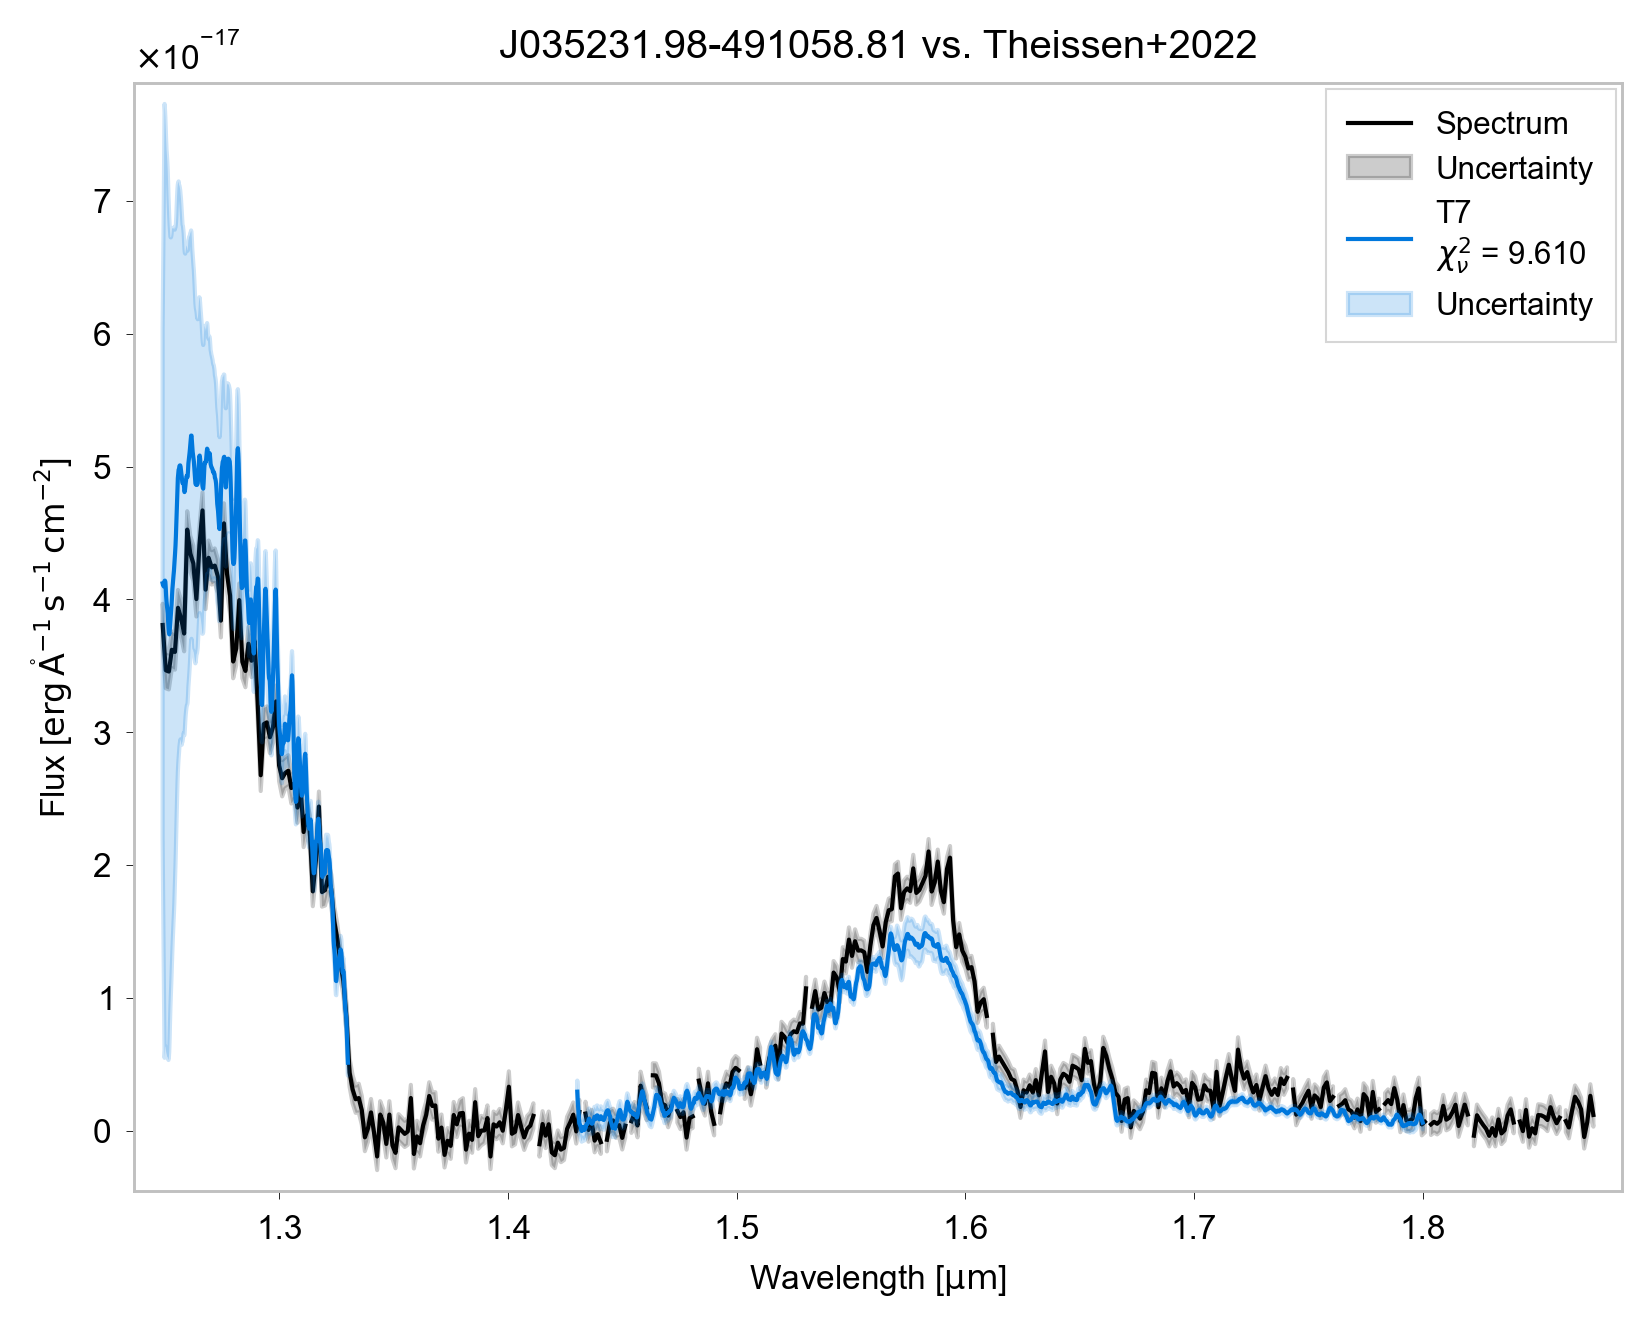
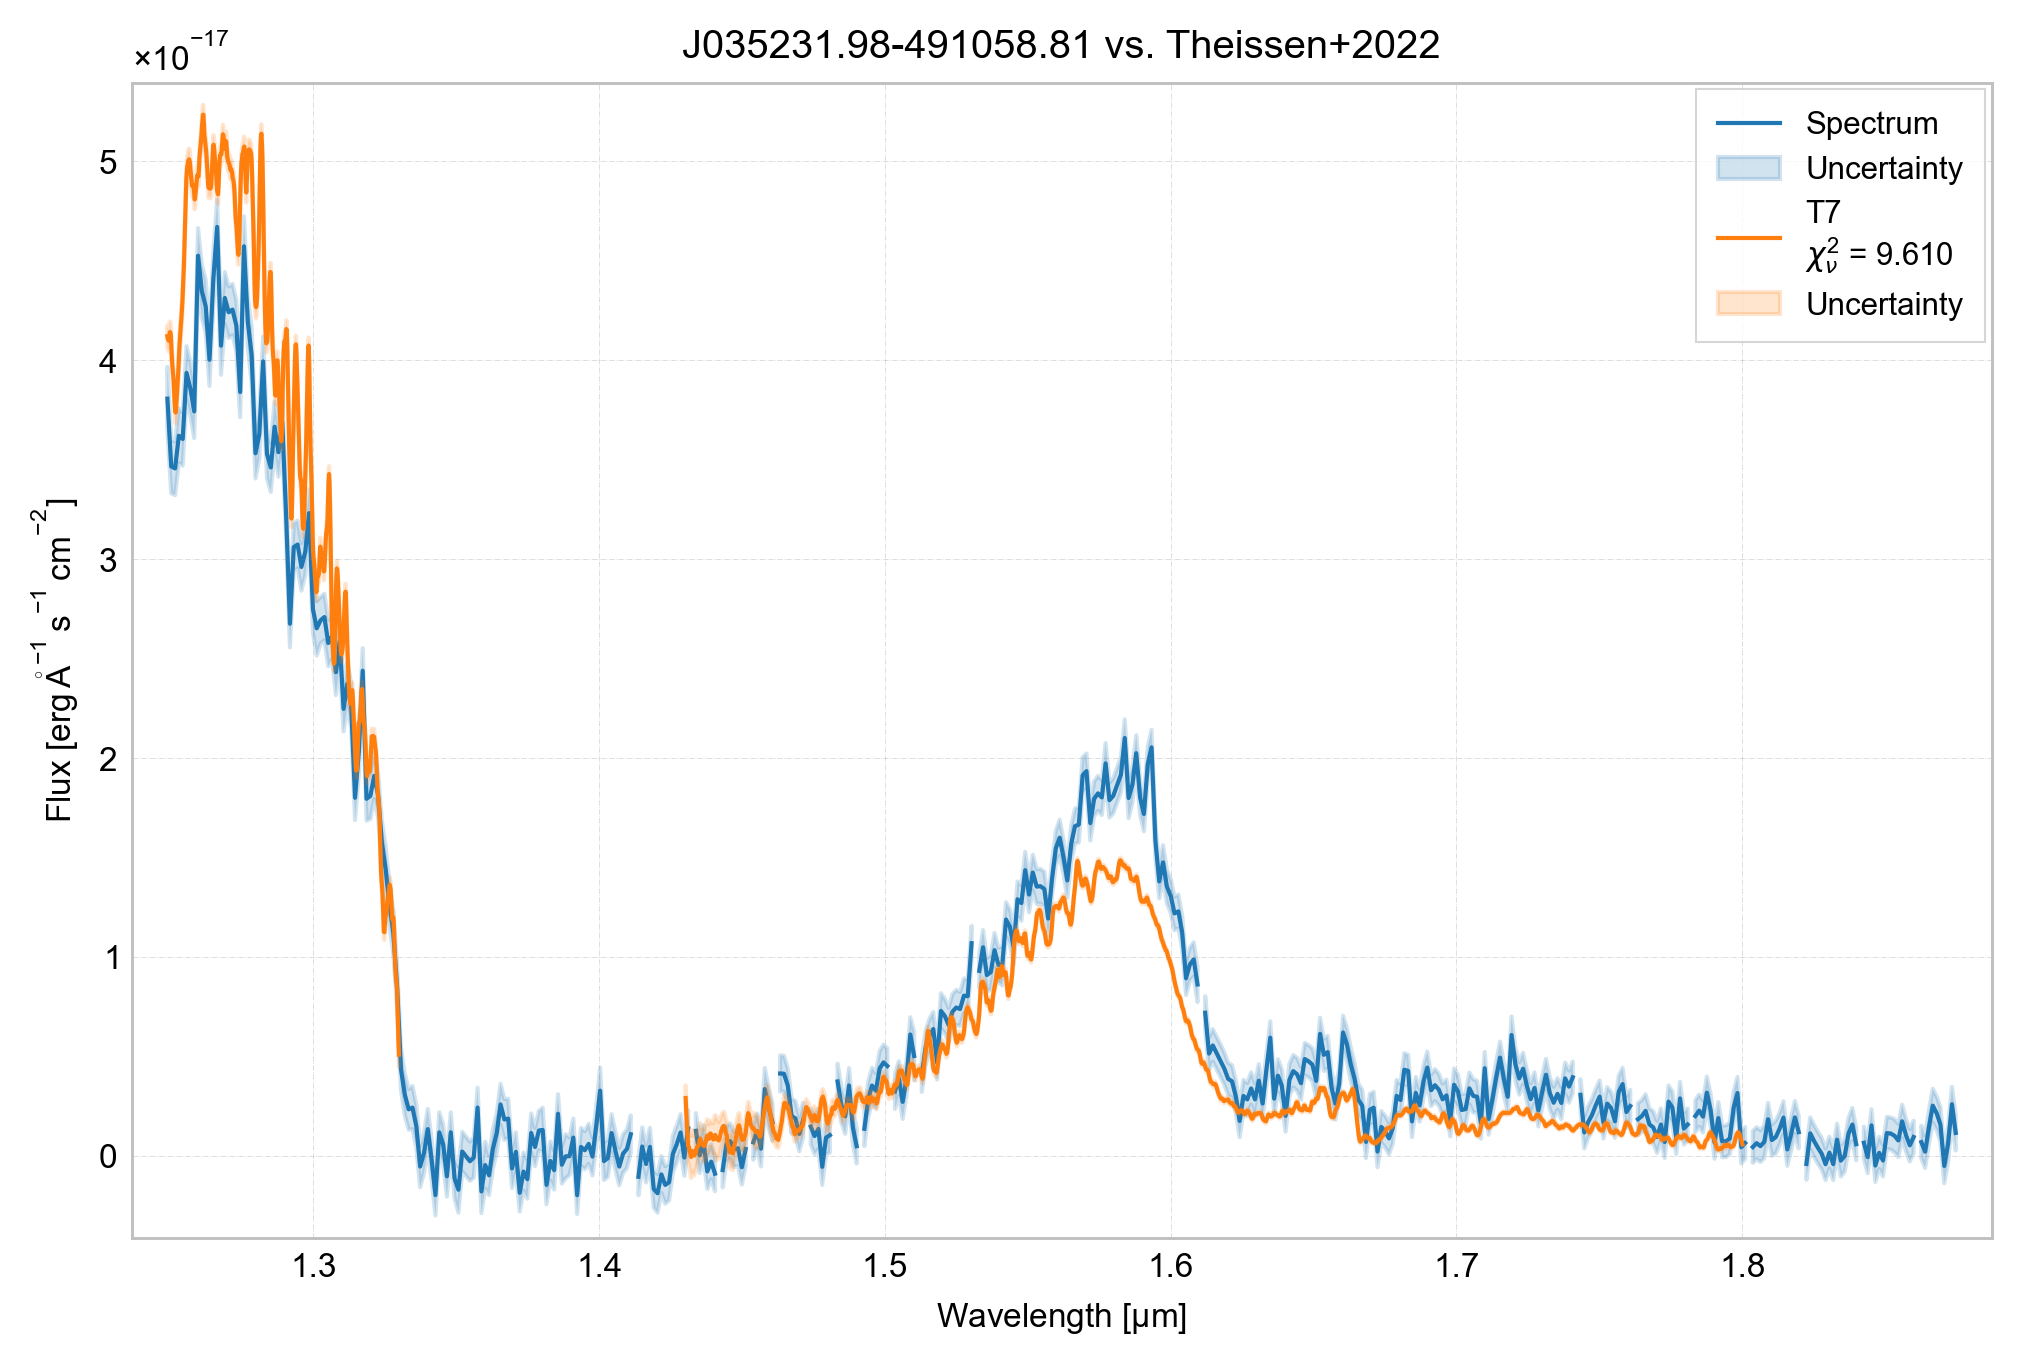
Update plots to reflect the new plotting configuration

Changed region(s): [[0.0, 0.0309, 0.9879, 0.988], [0.3087, 0.0, 0.7718, 0.0617]]

diff --git a/compare_spectrum_example.py b/compare_spectrum_example.py
@@ -121,7 +121,9 @@ if results:
             reference_on_top=False,
             spec_uncertainty=True,
             colors=["tab:blue", "tab:orange"],
-            plot_format="pdf",
+            figure_size=(8, 5),
+            show_grid=True,
+            plot_format="png",
         )
     else:
         print("No spectrum found for the given object ID")

diff --git a/esa_tools_example.py b/esa_tools_example.py
@@ -126,6 +126,8 @@ if data and len(data) > 0:
     sed.to_flux_lambda()
     sed.plot(
         spec_uncertainty=True,
+        figure_size=(8, 5),
+        show_grid=True,
         plot_format="png",
     )
 

diff --git a/irsa_tools_example.py b/irsa_tools_example.py
@@ -126,6 +126,8 @@ if data and len(data) > 0:
     sed.to_flux_lambda()
     sed.plot(
         spec_uncertainty=True,
+        figure_size=(8, 5),
+        show_grid=True,
         plot_format="pdf",
     )
 
